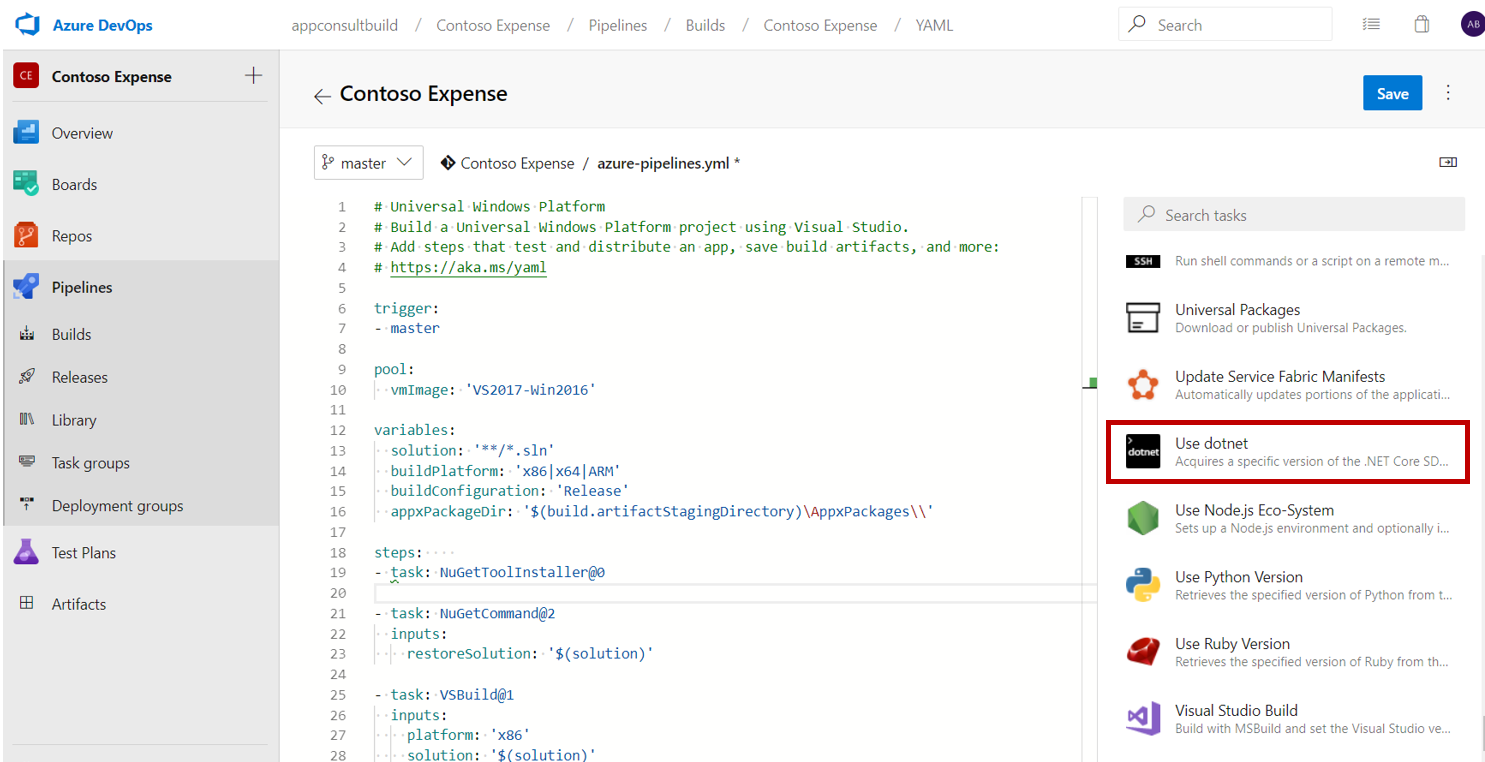
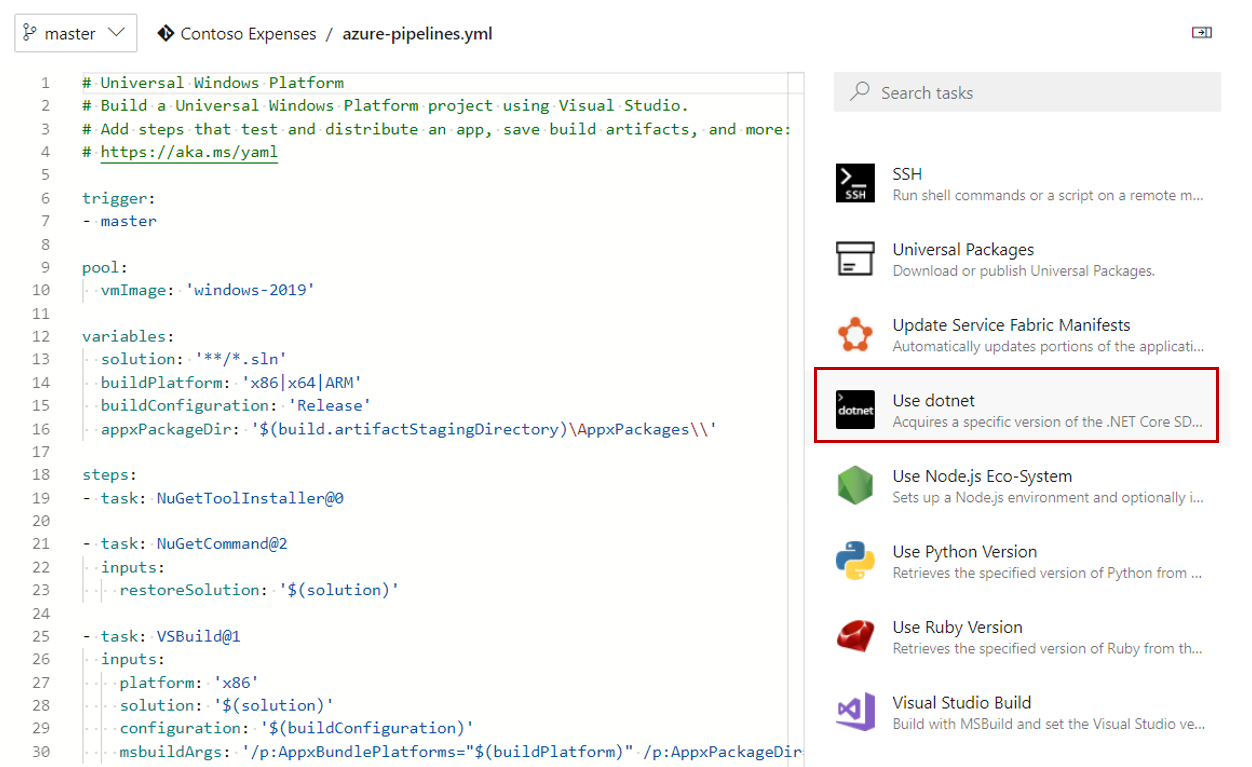
v2

diff --git a/Exercise6/README.md b/Exercise6/README.md
@@ -183,9 +183,14 @@ Note that the local repository folder is empty and that exists only the local .v
 
 ![](../Manual/Images/AzureDevOpsRepositoryLocalEmpty.png)
 
+
 5. Copy the **Contoso Expenses** solution created in the previous exercise to the local repository.
 
+
 ![](../Manual/Images/AzureDevOpsRepositoryAddedSolution.png)
+
+
+**NOTE:** If you are using the **Contoso Expenses** solution cloned from <a href="https://github.com/Microsoft/AppConsult-WinAppsModernizationWorkshop" target="_blank">GitHub</a>, please make sure to download the code as ZIP to make sure that Visual Studio is pointing to the right repository.
 
 6. Switch back to Visual Studio and double-click on the **ContosoExpenses.sln**:
 
@@ -212,14 +217,11 @@ Before commit the changes, it is important to notice that not every file created
 More information about .gitignore file available at:
 <a href="https://docs.microsoft.com/en-us/azure/devops/repos/git/ignore-files?view=azure-devops&tabs=command-line" target="_blank">Ignore file changes with Git</a>
 
-
 10. Click on **Changes** to commit the changes, in this case, to commit all the solution files.
-
 
 ![](../Manual/Images/AzureDevOpsCommitChanges.png)
 
 The commit changes UI will be displayed, asking to enter the commit message.
-
 
 11. Enter the commit message and click on **Commit Staged** button:
 
@@ -264,7 +266,7 @@ In the **Where is your code?** page, you can select your source code from differ
 
 ![](../Manual/Images/AzureDevOpsWhereIsYourpage.png)
 
-2. To keep it simple, click on **Azure Repos Git** as we made the source code available in the Azure DevOps portal:
+2. Click on **Azure Repos Git** as we made the source code available in the Azure DevOps portal:
 
 ![](../Manual/Images/AzureDevOpsWhereIsYourpage2.png)
 
@@ -279,9 +281,19 @@ In the **Where is your code?** page, you can select your source code from differ
 
 Azure Pipelines will analyze your repository. As it is the first time that we are configuring the pipeline to this project, the repository doesn't have the **azure-pipelines.yml** yet. Azure Pipelines recommends a starter template based on the code in your repository.
 
-5. Click on **Save and run**.
+More information about the YAML file available at <a href="https://docs.microsoft.com/en-us/azure/devops/pipelines/yaml-schema?view=azure-devops&tabs=schema" target="_blank">YAML schema reference</a>.
 
-![](../Manual/Images/AzureDevOpsPipelineReview.png)
+As **Contoso Expenses** solution was developed on **Visual Studio 2019 Preview**, we need to change the pipeline image to **Windows Server 2019** that comes with the Visual Studio 2019 Preview installed.  
+
+If you didn't change the vmImage, you will receive the following error message during the build:
+
+```text
+Version 3.0.100-preview3-010431 of the .NET Core SDK requires at least version 16.0.0 of MSBuild. The current available version of MSBuild is 15.9.21.66.
+```
+
+5. Change the **vmImage** value from **VS2017-Win2016** to **windows-2019** and click on **Save and run** button:
+
+![](../Manual/Images/AzureDevOpsPipelineEdit4.png)
 
 6. Select **Commit directly to the master branch** and click on **Save and Run**:
 
@@ -291,7 +303,6 @@ Wait for the pipeline finished to be configured:
 
 ![](../Manual/Images/AzureDevOpsPipelineConfiguring.png)
 
-More information about the YAML file available at <a href="https://docs.microsoft.com/en-us/azure/devops/pipelines/yaml-schema?view=azure-devops&tabs=schema" target="_blank">YAML schema reference</a>.
 
 The build will be started automatically:
 
@@ -300,26 +311,20 @@ The build will be started automatically:
 Wait for the build to finish. Observe that the build finished with errors.
 
 
-![](../Manual/Images/AzureDevOpsPipelineBuildWithErrors.png)
+![](../Manual/Images/AzureDevOpsPipelineSdkError.png)
 
+Message error:
 
-Error message:
 ```text
 C:\Program Files\dotnet\sdk\2.2.105\Sdks\Microsoft.NET.Sdk.WindowsDesktop\Sdk not found. Check that a recent enough .NET Core SDK is installed and/or increase the version specified in global.json.
 ```
 
+This error happened, because it is necessary to install the **.NET Core 3.0 SDK Preview** in Azure DevOps build environment.
 
-This is happening as the **.NET Core 3.0 SDK** is in **preview** and doesn't exist yet in the Azure DevOps environment.
+7. Click on **Pipelines**, click on **Edit**:
 
+![](../Manual/Images/AzureDevOpsPipelineEdit0.png)
 
-
-7. Click on **Pipelines** item and click on the **Edit** button to edit the **azure-pipelines.yml** file:
-
-![](../Manual/Images/AzureDevOpsPipelineEdit.png)
-
-The following page will be displayed with the content of the azure-pipelines.yml. Observe that there are a lot of extensions available to help to define the tasks:
-
-![](../Manual/Images/AzureDevOpsAzurePipelineYmlFile.png)
 
 8. Scroll down in the task list and click on **Use dotnet** task. That option will acquire a specific version of the .NET Core SDK from the Internet or the local cache and adds it to the PATH.
 
@@ -347,30 +352,59 @@ Observe that the following code will be added to the yaml file:
     version: '3.0.100-preview3-010431'
 ```
 
-11. Click on the **Save** button:
+Now that the task to install .NET Core 3.0 SDK is defined, we need to specify the NuGet version 4.3.0 that contains the latest NuGet packages used by the project.
 
-![](../Manual/Images/AzureDevOpsPipelineSave1.png)
+That setting will prevent us to receive the following build error:
 
-12. Click on **Save** again:
+```text
+NU1605: Detected package downgrade: System.Collections from 4.3.0 to 4.0.11. Reference the package directly from the project to select a different version.
+```
+
+11. Locate the **task: NuGetToolInstaller@0** line and add the NuGet version, as follows:
+
+```yaml
+- task: NuGetToolInstaller@0
+  displayName: 'Use NuGet 4.4.1'
+  inputs:
+    versionSpec: 4.4.1
+```
+
+Be aware with the file indentation.
+
+Before saving, the last change in the yaml file will be to disable the **AppxPackageSigningEnabled** in the build process. That change is necessary to eliminate the error below, as the compiler not found the certificate to sign the package.
+
+```text
+Error APPX0104: Certificate file 'ContosoExpenses.Package_TemporaryKey.pfx' not found.
+```
+
+
+12. Locate the **VSBuild@1** task, and include the **/p:AppxPackageSigningEnabled=false** parameter, as follows:
+
+```yaml
+- task: VSBuild@1
+  inputs:
+    platform: 'x86'
+    solution: '$(solution)'
+    configuration: '$(buildConfiguration)'
+    msbuildArgs: '/p:AppxBundlePlatforms="$(buildPlatform)" /p:AppxPackageDir="$(appxPackageDir)" /p:AppxBundle=Always /p:UapAppxPackageBuildMode=StoreUpload /p:AppxPackageSigningEnabled=false'
+```
+
+13. Click on **Save**.
+
+
+![](../Manual/Images/AzureDevOpsPipelineSave.png)
+
+
+12. Click on **Save** to commit the yaml file changes:
 
 ![](../Manual/Images/AzureDevOpsPipelineSave2.png)
 
-13. Click on **Pipeline**, click on **Builds** and select the latest build:
 
-![](../Manual/Images/AzureDevOpsPipelineBuildList.png)
-
-
-Note that the build finished with the same error. Through the message error, it is possible to see that the compiler still using the **.NET Core SDK 2.2.105** instead of **.NET Core SDK 3.0**.
-
-```text
-C:\Program Files\dotnet\sdk\2.2.105\Sdks\Microsoft.NET.Sdk.WindowsDesktop\Sdk not found. Check that a recent enough .NET Core SDK is installed and/or increase the version specified in global.json.
-```
-
-To fix this error, it will be necessary to add the **global.json** file to the repository folder. If the **global.json** exists, the .NET Core SDK version, specified in the file, will be used for all SDK commands like **dotnet build**.
+Before clicking on the Run button, it is necessary to add a **global.json** file to the repository folder to force the compiler to use the .NET Core 3.0 SDK version.
 
 For more information about the global.json file check the <a href="https://docs.microsoft.com/en-us/dotnet/core/tools/global-json" target="_blank">global.json overview</a>.
 
-14. Open the **local repository folder** of the **Contoso Expenses** project and add a **global.json** file with the following content:
+13. Switch back to the **local repository folder** of the **Contoso Expenses** project and add a **global.json** file with the following content:
 
 ```json
 {
@@ -389,130 +423,25 @@ The local repository folder should looks like:
 ![](../Manual/Images/AzureDevOpsPipelineGlobalJson.png)
 
 
-15. In the Visual Studio, open the **Contoso Expenses** solution and click on **Changes** available in the **Team Explorer** tab.
+14. In the Visual Studio, open the **Contoso Expenses** solution and click on **Changes** available in the **Team Explorer** tab.
 
 ![](../Manual/Images/AzureDevOpsCommitChanges.png)
 
 
-16. Make sure that the **global.json** is listed in the changes folder, fill in the **commit message** and click on **Commit All** button:
+15. Make sure that the **global.json** is listed in the changes folder, fill in the **commit message** and click on **Commit All** button:
 
 ![](../Manual/Images/AzureDevOpsPipelineGlobalJsonCommit.png)
 
-Now, it will be necessary to create a task to install .NET Core 3.0 in the Azure DevOps build environment.
-
-17. Switch back to the **Azure DevOps portal**, click on **Pipeline** and click on the last build that was automatically started after committing the changes in Visual Studio.
-
-![](../Manual/Images/AzureDevOpsPipelineBuildAfterGlobal.png)
 
 
-Observe that this time, the build finishes with a different error telling us that the **MSBuild version**, of the build environment, is less than the required by the **Contoso Expenses** project:
-
-![](../Manual/Images/AzureDevOpsPipelineError1.png)
-
-Error message:
-
-```text
-Version 3.0.100-preview3-010431 of the .NET Core SDK requires at least version 16.0.0 of MSBuild. The current available version of MSBuild is 15.9.21.66.
-```
-
-That is happening because the **Contoso Expenses** is using **Visual Studio 2019 Preview**. Therefore, we need to change the pipeline image to **Windows Server 2019**, as it comes with the Visual Studio 2019 Preview installed.
-
-18. Click on **Pipeline** and click on the **Edit** button to modify the yaml file:
-
-![](../Manual/Images/AzureDevOpsPipelineEdit3.png)
-
-19. Change the vmImage value from **VS2017-Win2016** to **windows-2019** and click on **Save**:
-
-![](../Manual/Images/AzureDevOpsPipelineEdit4.png)
-
-20. Commit the yaml file changes by clicking on **Save**:
-
-![](../Manual/Images/AzureDevOpsPipelineSave2.png)
-
-21. Click on **Pipeline**, click on **Builds** and select the latest build:
-
-![](../Manual/Images/AzureDevOpsPipelineBuildList.png)
-
-Note that this time, it was generated an error during the NuGetCommand task:
-
-![](../Manual/Images/AzureDevOpsPipelineError2.png)
-
-Error message:
-
-```text
-NU1605: Detected package downgrade: System.Collections from 4.3.0 to 4.0.11. Reference the package directly from the project to select a different version.
-```
-
-To fix that error, it is necessary to edit the yaml file and specify the NuGet version that we want to use.
-
-22. Click on **Pipeline** and click on the **Edit** button to edit the yaml file:
-
-![](../Manual/Images/AzureDevOpsPipelineEdit3.png)
-
-23. Add the NuGet veersion, as follows:
-
-```yaml
-- task: NuGetToolInstaller@0
-  displayName: 'Use NuGet 4.4.1'
-  inputs:
-    versionSpec: 4.4.1
-```
-
-Be aware with the indentation.
 
 
-24. Click on **Save**.
-
-![](../Manual/Images/AzureDevOpsPipelineEdit5.png)
 
 
-25. Commit the yaml file changes by clicking on **Save**:
-
-![](../Manual/Images/AzureDevOpsPipelineSave2.png)
-
-26. Click on **Pipeline**, click on **Builds** and select the latest build:
-
-![](../Manual/Images/AzureDevOpsPipelineBuildList.png)
-
-The build will fail again, but this will be the last error. :)
-
-![](../Manual/Images/AzureDevOpsPipelineError3.png)
-
-Message error:
-
-```text
-Error APPX0104: Certificate file 'ContosoExpenses.Package_TemporaryKey.pfx' not found.
-```
 
 
-This error happened, because the compiler not found the certificate to sign the package.
-
-To fix this error, it will be necessary to disable the AppxPackageSigningEnabled in the yaml file.
-
-27. Click on **Pipeline** and click on **Edit** button to edit the yaml file:
-
-![](../Manual/Images/AzureDevOpsPipelineEdit3.png)
 
 
-28. In the last task, include the **/p:AppxPackageSigningEnabled=false** parameter, as follows:
-
-```yaml
-- task: VSBuild@1
-  inputs:
-    platform: 'x86'
-    solution: '$(solution)'
-    configuration: '$(buildConfiguration)'
-    msbuildArgs: '/p:AppxBundlePlatforms="$(buildPlatform)" /p:AppxPackageDir="$(appxPackageDir)" /p:AppxBundle=Always /p:UapAppxPackageBuildMode=StoreUpload /p:AppxPackageSigningEnabled=false'
-```
-
-The yaml file should looks like:
-
-![](../Manual/Images/AzureDevOpsPipelineFinalYaml.png)
-
-
-29. Click on **Run** to queue a new build and click on the **build number** to go to the build details. Note that the build succeeded this time.
-
-![](../Manual/Images/AzureDevOpsPipelineBuildSuccess.png)
 
 
 Congrats! The build succeeded, but it is missing one thing here. Where are the build output? To access the output files, it will be necessary to add one more task.
